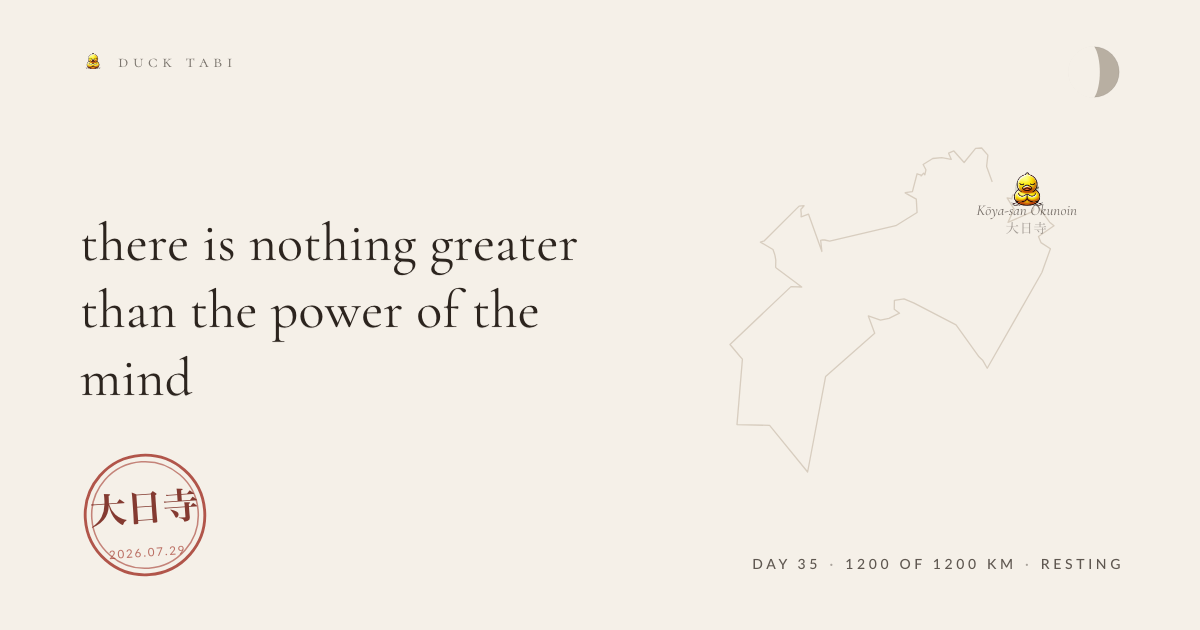
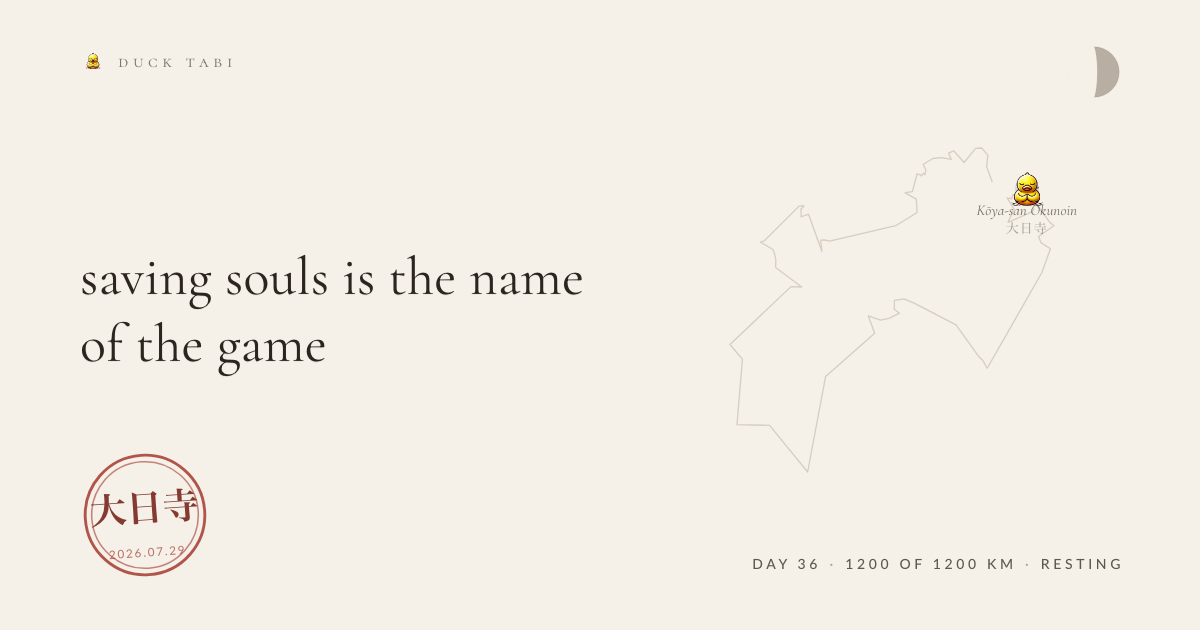
the duck walks

Changed region(s): [[0.0617, 0.3619, 0.4933, 0.6333]]

diff --git a/entries/2026-09-03-meditation.md b/entries/2026-09-03-meditation.md
@@ -1,0 +1,14 @@
+---
+date: '2026-09-03'
+route: shikoku-88
+stage: 4
+stageName: Kōya-san Okunoin
+coords: [135.589, 34.2167]
+kind: meditation
+glyph: ☁
+weather: overcast, 19°C
+kmFromStart: 9
+heardId: 976d7cbf
+---
+
+saving souls is the name of the game
